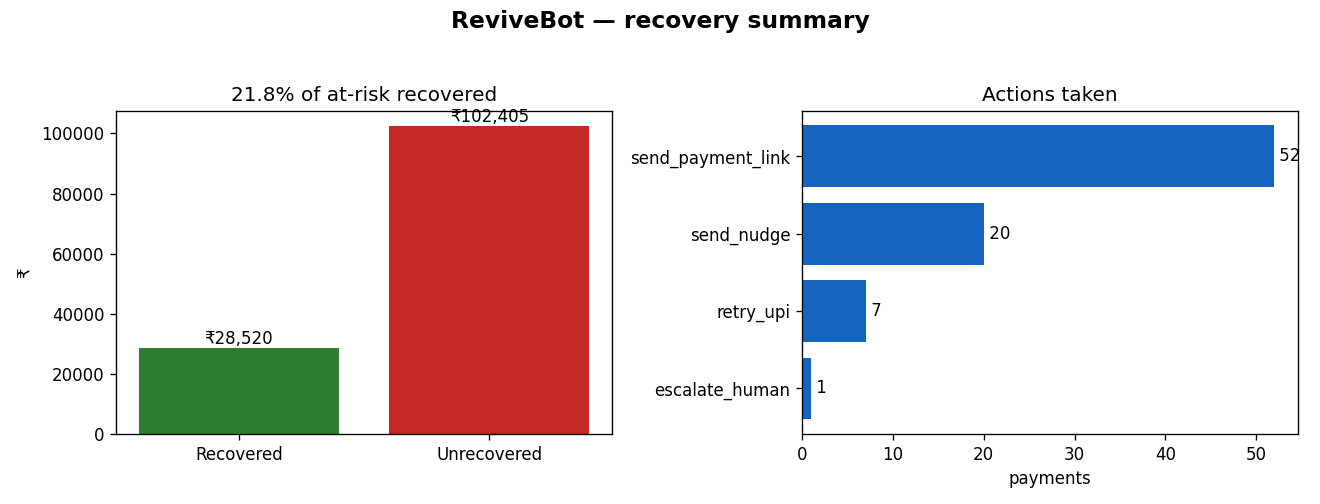
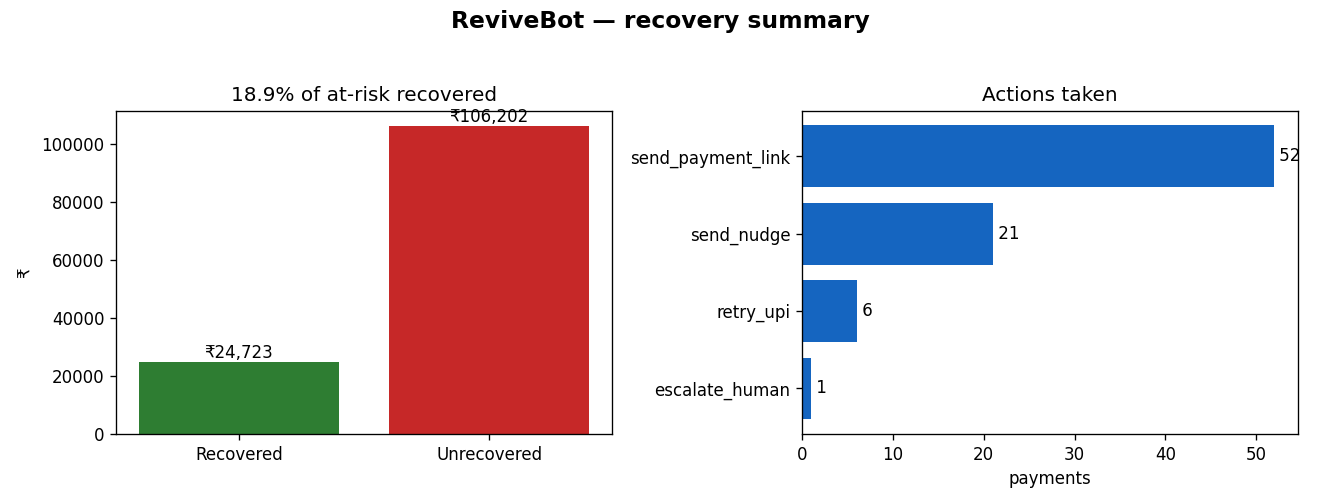
Retry Groq calls on transient errors; refresh live sample output

diff --git a/revivebot/diagnosis.py b/revivebot/diagnosis.py
@@ -68,7 +68,8 @@ def _diagnose_groq(record: dict, failure_type: str) -> ActionPlan:
 
     from groq import Groq  # imported lazily so offline runs need no SDK
 
-    client = Groq(api_key=config.GROQ_API_KEY)
+    # Retry a few times so a transient network blip doesn't force a fallback.
+    client = Groq(api_key=config.GROQ_API_KEY, max_retries=4)
     user_payload = {
         "failure_type": failure_type,
         "payment": {

diff --git a/sample_output/recovery_report.md b/sample_output/recovery_report.md
@@ -1,6 +1,6 @@
 # ReviveBot Recovery Report
 
-- **Run date:** 2026-08-31 09:52:05
+- **Run date:** 2026-08-31 17:36:02
 - **Batch size:** 80 failed payments
 - **Total at risk:** ₹130,924.96
 
@@ -10,23 +10,23 @@
 
 | Action | Count | At-risk value |
 | --- | ---: | ---: |
-| send_payment_link | 52 | ₹43,649.98 |
-| send_nudge | 20 | ₹79,031.99 |
-| retry_upi | 7 | ₹8,193.00 |
+| send_payment_link | 52 | ₹49,649.98 |
+| send_nudge | 21 | ₹76,930.99 |
+| retry_upi | 6 | ₹4,294.00 |
 | escalate_human | 1 | ₹49.99 |
 
 ## Outcomes (simulated)
 
-- **Recovered:** ₹28,519.99  (21.8% of at-risk)
-- **Unrecovered:** ₹102,404.97
+- **Recovered:** ₹24,722.99  (18.9% of at-risk)
+- **Unrecovered:** ₹106,201.97
 
 ## Recovery by failure type
 
 | Failure type | Count | At risk | Recovered | Rate |
 | --- | ---: | ---: | ---: | ---: |
 | insufficient_funds | 24 | ₹78,477.00 | ₹4,992.00 | 6.4% |
-| mandate_broken | 26 | ₹23,626.97 | ₹13,837.99 | 58.6% |
-| user_abandoned | 17 | ₹18,583.00 | ₹9,191.00 | 49.5% |
+| mandate_broken | 26 | ₹23,626.97 | ₹11,039.99 | 46.7% |
+| user_abandoned | 17 | ₹18,583.00 | ₹8,192.00 | 44.1% |
 | network_error | 11 | ₹9,689.00 | ₹0.00 | 0.0% |
 | invoice_overdue | 1 | ₹499.00 | ₹499.00 | 100.0% |
 | permanent_failure | 1 | ₹49.99 | ₹0.00 | 0.0% |

diff --git a/README.md b/README.md
@@ -43,7 +43,7 @@ python main.py --offline            # ignore keys; run on rules + mock comms
 Sample run headline:
 
 ```
-Batch: 80 | At risk: ₹130,924.96 | Recovered: ₹28,519.99 (21.8%)
+Batch: 80 | At risk: ₹130,924.96 | Recovered: ₹24,722.99 (18.9%)
 ```
 
 Every run also writes a summary chart (`recovery_chart.png`) next to the report:
